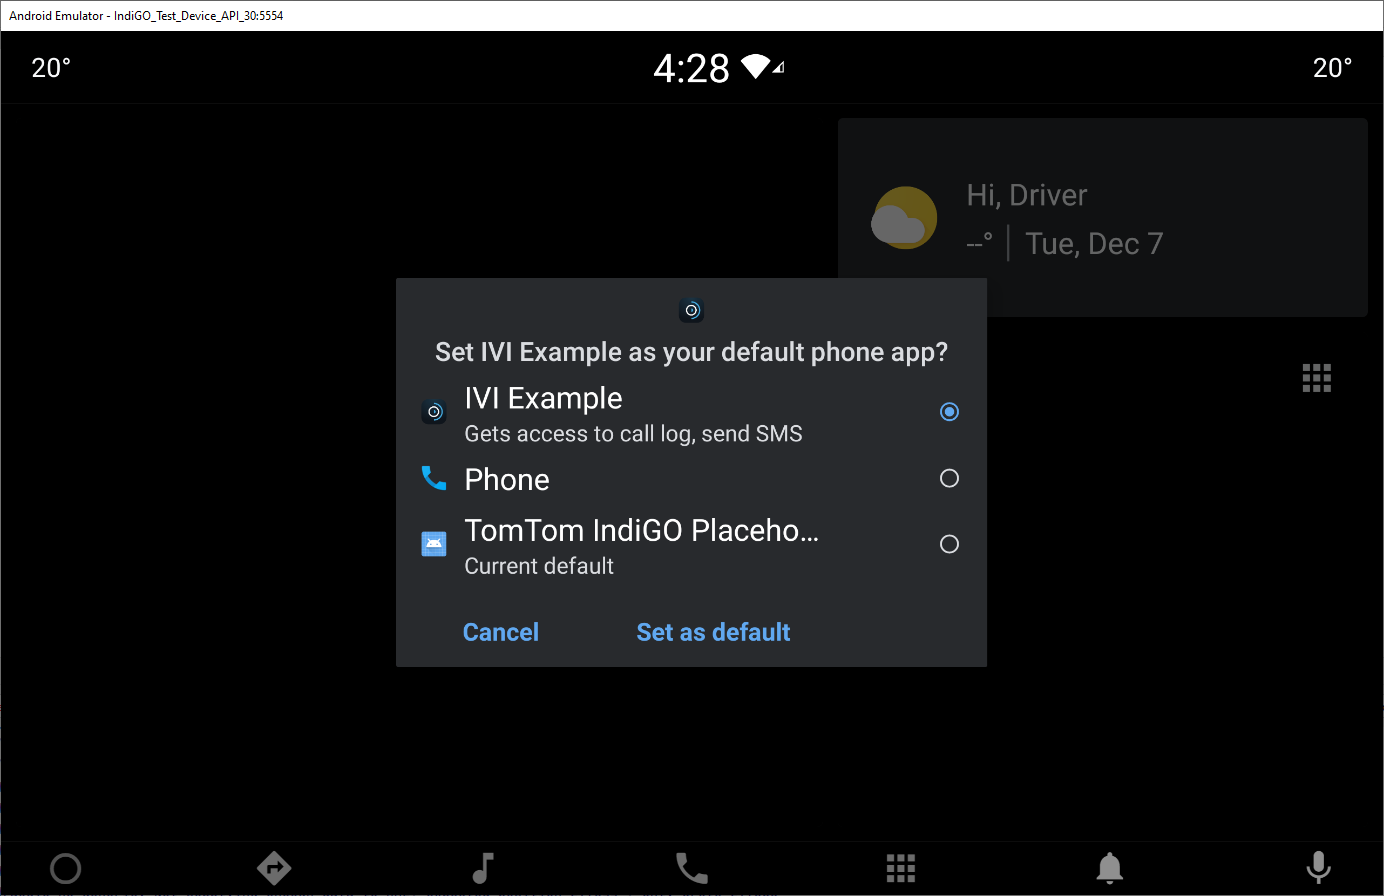
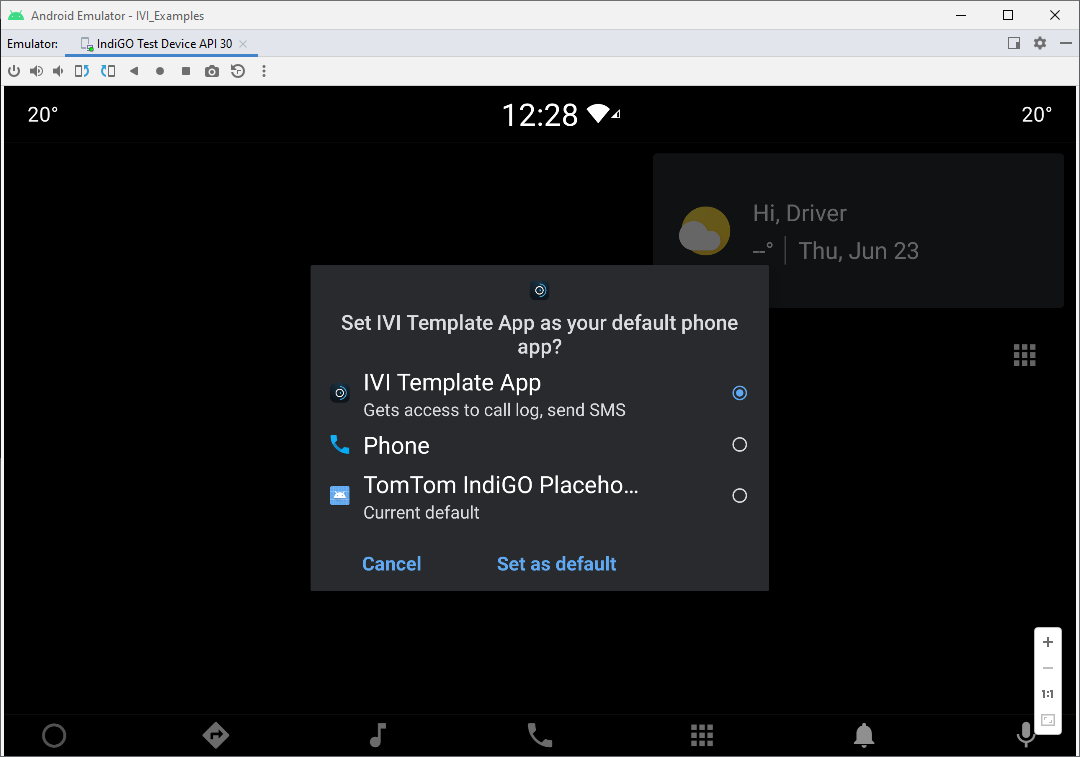
Merged PR 24253: IVI-7658: Update docs for AS Chipmunk
Update the texts and image for using Android Studio version Chipmunk.

diff --git a/docs/portal/src/documentation/getting-started/the-tomtom-indigo-emulator.md b/docs/portal/src/documentation/getting-started/the-tomtom-indigo-emulator.md
@@ -18,30 +18,29 @@ Follow these steps to install the TomTom IndiGO emulator image in Android Studio
 
 - Copy the file `docs/resources/devices.xml` (from the `examples` source), to your `~/.android/`
   folder.
-
-    __Windows:__ Copy to your `%UserProfile%\.android\` folder.
+  - __Windows:__ Copy to your `%UserProfile%\.android\` folder.
 
 - If Android Studio is running, restart it, so that the new file is picked up.
 
 - Open the SDK Manager via `Tools` > `SDK Manager`.
 
 - Select tab `SDK Update Sites` and add a new entry:
-    - Name: `TomTom IndiGO - Android 11 Emulators`
-    - URL: `https://aaos.blob.core.windows.net/indigo-automotive/repo-sys-img.xml`
-    - Leave `Use Authentication` unchecked, and click `OK`.
+  - Name: `TomTom IndiGO - Android 11 Emulators`
+  - URL: `https://aaos.blob.core.windows.net/indigo-automotive/repo-sys-img.xml`
+  - Leave `Use Authentication` unchecked, and click `OK`.
 
 - Add another `SDK Update Sites` entry:
-    - Name: `TomTom IndiGO - Artifact Repository`
-    - URL: `https://repo.tomtom.com/`
-    - Tick `Use Authentication`, enter your TomTom
-      [repository credentials](/tomtom-indigo/documentation/getting-started/introduction)
-      and click `OK`.
+  - Name: `TomTom IndiGO - Artifact Repository`
+  - URL: `https://repo.tomtom.com/`
+  - Tick `Use Authentication`, enter your TomTom
+    [repository credentials](/tomtom-indigo/documentation/getting-started/introduction)
+    and click `OK`.
 
 - __Note__ the `s` in `https://`, because Android Studio proposes a default URL as `http://`.
 
 - Click `Apply` to activate these update sites.
-    - The `TomTom IndiGO - Android 11 Emulators` entry should not show an error.
-    - The `TomTom IndiGO - Nexus repository` entry will show an error, which you can ignore.
+  - The `TomTom IndiGO - Android 11 Emulators` entry should not show an error.
+  - The `TomTom IndiGO - Nexus repository` entry will show an error, which you can ignore.
 
 ![Android Studio SDK Update Sites](images/android_studio_sdk_update_sites.png)
 
@@ -59,22 +58,22 @@ Follow these steps to install the TomTom IndiGO emulator image in Android Studio
 After having downloaded the [emulator image](#the-tomtom-indigo-emulator-image), you can create an
 Android Virtual Device (AVD) with it:
 
-- Open the AVD Manager via `Tools` > `AVD Manager`:
+- Open the Device Manager via `Tools` > `Device Manager`:
 
-![Android Studio - Create Virtual Device](images/android_studio_your_virtual_devices.png)
+![Android Studio - Create Virtual Device](images/android_studio_create_virtual_device.png)
 
-- Click `Create Virtual Device`. You should now see a list of device definitions.
+- Select tab `Virtual` and click `Create device`. You should now see a list of device definitions.
 
 - In the `Automotive` category, select item `IndiGO_Test_Device`, then click `Next`:
 
 ![Android Studio - Select Hardware](images/android_studio_select_hardware.png)
 
 - In the `System Image` dialog, go to tab `x86 Images` and select the upper entry:
-    - `Release Name` : `R`
-    - `API level` : `30`
-    - `ABI` : `x86_64`
-    - `Target` : `Android 11.0 (Indigo Automotive Android System Image)`
-    - __Note:__ The entries displayed differ only in the last part of their `Target` field.
+  - `Release Name` : `R`
+  - `API level` : `30`
+  - `ABI` : `x86_64`
+  - `Target` : `Android 11.0 (Indigo Automotive Android System Image)`
+  - __Note:__ The entries displayed differ only in the last part of their `Target` field.
 
 - __Mac _with_ an M1 processor:__ Go to tab `Other Images` and select `Android S` for `arm64-v8a` as
   the System Image. This is a standard Android image, without TomTom IndiGO-specific customizations
@@ -93,54 +92,67 @@ Android Virtual Device (AVD) with it:
 
 - Click `Finish`.
 
-- You now see a new TomTom IndiGO emulator device listed in the AVD Manager:
+- You now see a new TomTom IndiGO emulator device listed in the Device Manager:
 
 ![Android Studio - TomTom IndiGO Emulator Device](images/android_studio_tomtom-indigo_emulator_device.png)
 
 - Click the triangular `play` icon on the right to start the emulator.
-- When the emulator has started, it shows as:
+- When the emulator has started, it shows inside a `Device Manager` subwindow:
+
+![Android Studio - TomTom IndiGO Emulator In Device Manager](images/android_studio_tomtom-indigo_emulator_in_device_manager.png)
+
+- To show the emulator in its own window, click the `Settings` icon in the top-right corner of the
+  emulator panel and select `View Mode` > `Window`:
 
 ![Android Studio - TomTom IndiGO Emulator Window](images/android_studio_tomtom-indigo_emulator_window.png)
 
 - Enable wifi, to ensure that map data can be downloaded:
-    - Click the Home button (circle) in the sidebar next to the emulator screen.
-    - Press the Android Applications icon (nine dots in a grid) on the bottom of the screen.
-    - Scroll down and open `Settings`.
-    - Select `Network & internet`.
-    - Enable `Wi-Fi` by pressing the toggle button so it turns blue.
+  - Click the Home button (circle) in the top bar of the emulator screen.
+  - Press the Android Applications icon (nine dots in a grid) on the bottom of the screen.
+  - Scroll down and open `Settings`.
+  - Select `Network & internet`.
+  - Enable `Wi-Fi` by pressing the toggle button so it turns blue.
 
 - Set the emulator's OpenGL ES API level to 3.1:
-    - Click the three dots at the bottom in the sidebar next to the emulator screen. This opens the
-      `Extended Controls` dialog.
-    - Select `Settings` at the left.
-    - Select the `Advanced` tab at the top.
-    - This should say `Desktop native OpenGL` and `Renderer maximum (up to OpenGL ES 3.1)`, see
-      picture below.
-    - Close the `Extended Controls` dialog.
+  - Click the three dots in the top bar of the emulator screen. This opens the `Extended Controls`
+    dialog.
+  - Select `Settings` at the left.
+  - Select the `Advanced` tab at the top.
+  - This should say `Desktop native OpenGL` and `Renderer maximum (up to OpenGL ES 3.1)`, see
+    picture below.
+  - Close the `Extended Controls` dialog.
 
 ![Emulator - OpenGL Settings](images/emulator_opengl_settings.png)
 
 - Now restart the emulator, for the new settings to take effect:
-    - Click the `x` in the upper-right corner of the emulator sidebar.
-    - In Android Studio go to: `Tools` > `AVD Manager`.
-    - On the right-hand side of each configured AVD there is a down-arrow that opens a context menu.
-      Press the down-arrow (instead of pressing the green Play button), and select `Cold Boot Now`.
+  - Close the `IndiGO Test Device API 30` tab in the emulator window to stop the emulator.
+  - In Android Studio go to: `Tools` > `Device Manager`.
+  - On the right-hand side of each configured AVD there is a down-arrow that opens a context menu.
+    Press the down-arrow (instead of pressing the green Play button), and select `Cold Boot Now`.
+
+<Blockquote type="announcement">
+    Do <b>not</b> close the emulator window without closing the emulator tab inside it. Closing the
+    emulator window will <b>not</b> stop the emulator, but instead keeps it running in the
+    background without access to its user interface.
+</Blockquote>
 
 ![Android Studio TomTom IndiGO Emulator Cold Boot](images/android_studio_tomtom-indigo_emulator_cold_boot.png)
 
-- Close the AVD Manager and wait for the emulator to start up.
+- Go to the emulator window and wait for the emulator to start up.
 
-- In Android Studio, build and run the application by clicking on the green `play` icon. Select the
-  TomTom IndiGO automotive emulator that was created earlier in this tutorial, as the device that
-  the application will run on:
+- In Android Studio:
+  - Select the `Run IVI Template App` project as the application to build.
+  - Select the TomTom IndiGO emulator that was created earlier in this tutorial, as the device that
+    the application will run on.
+  - Build and run the application by clicking the green `play` icon.
 
 ![Android Studio - Build and run](images/android_studio_build_and_run.png)
 
-- When the application starts, you must select `IVI Example` as the default phone app.
+- When the application starts, you must select `IVI Template App` as the default phone app.
 
 ![Emulator Default Phone App](images/emulator_default_phone_app.png)
 
-- You will now see the TomTom IndiGO home screen. Note that the map data is shown only when you have
+- You will now see the TomTom IndiGO home screen. Note that the map data shows only when you have
   [configured a valid TomTom API key](/tomtom-indigo/documentation/getting-started/getting-the-tomtom-api-key).
 
 ![TomTom IndiGO Home Screen](images/tomtom-indigo_home_screen.png)

diff --git a/docs/portal/src/documentation/getting-started/configuring-android-studio.md b/docs/portal/src/documentation/getting-started/configuring-android-studio.md
@@ -23,9 +23,11 @@ plugin:
 
 ![Upgrade Gradle Plugin](images/android_studio_upgrade_gradle_plugin.png)
 
-__Ignore this upgrade!__ The TomTom IndiGO build files specify the exact version of the plugin that is
-needed. The upgrade by Android Studio would change the TomTom IndiGO build files to use a wrong and
-hard-coded version of this plugin.
+<Blockquote type="warning" hasIcon>
+    <b>Ignore this upgrade!</b> The TomTom IndiGO build files specify the exact version of the
+    plugin that is needed. The upgrade by Android Studio would change the TomTom IndiGO build files
+    into using a wrong and hard-coded version of this plugin.
+</Blockquote>
 
 ## Building with Android Studio
 

diff --git a/docs/portal/src/documentation/getting-started/accessing-tomtom-indigo-sdk-example-sources.md b/docs/portal/src/documentation/getting-started/accessing-tomtom-indigo-sdk-example-sources.md
@@ -32,7 +32,10 @@ the SDK versions under `com/tomtom/indigo/tomtom-indigo-sdk`:
 - Click on the `+` icon to the left of this version to open its folder.
 - Click on the `tomtom-indigo-sdk-<version>.tar.gz` file to see its details in the panel on the
   right.
-- Click the `Path` link in the panel on the right to start downloading the zip.
+- Click the `Path` link in the panel on the right to start downloading the SDK tarball.
+- Extract the SDK tarball to your local disk.
+  - __Windows:__ Use a tool that supports long filenames, for example
+    [WinRAR](https://www.win-rar.com).
 
 ## Accessing the TomTom IndiGO SDK Example Sources through GitHub
 

diff --git a/docs/portal/src/documentation/getting-started/introduction.md b/docs/portal/src/documentation/getting-started/introduction.md
@@ -28,7 +28,7 @@ navigation available in your products.
 The TomTom IndiGO SDK has the following minimal requirements:
 
 - OpenJDK 11. (AdoptOpenJDK 11 for Windows.)
-- Android Studio Arctic Fox 2020.3.1 or more recent.
+- Android Studio `Chipmunk | 2021.2.1` or newer.
 - __Windows:__ WinRAR, to support compressed archives with long paths.
 
 If you are new to Android or Kotlin, please have a look at our
